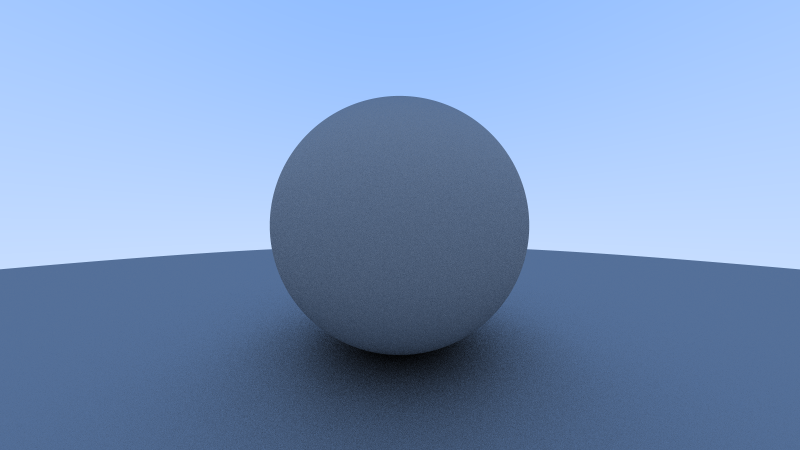
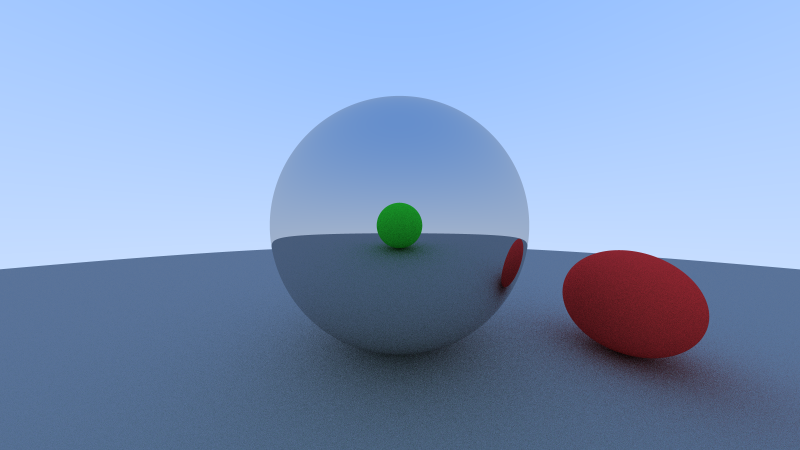
material: add metal

Changed region(s): [[0.3125, 0.2178, 0.6875, 0.6844], [0.6562, 0.5289, 1.0, 0.9644], [0.3438, 0.7156, 0.625, 0.9333]]

diff --git a/src/scene/examples/mod.rs b/src/scene/examples/mod.rs
@@ -1,5 +1,5 @@
 use crate::{
-    material::{Diffuse, DiffuseMethod},
+    material::{Diffuse, DiffuseMethod, Metal},
     object::Sphere,
     vec3::{Coord, RelColor},
 };
@@ -7,12 +7,23 @@ use crate::{
 use super::{camera::Camera, world::World, Scene};
 
 pub fn simple_scene() -> Scene {
-    let material = Diffuse::new(RelColor::new(0.6, 0.6, 0.6), DiffuseMethod::Lambertian);
-    let sphere = Sphere::new(Coord::new(0., 0., -1.), 0.5, material.clone());
-    let ground = Sphere::new(Coord::new(0., -100.5, -1.), 100., material.clone());
+    let diffuse = Diffuse::new(RelColor::new(0.6, 0.6, 0.6), DiffuseMethod::Lambertian);
+    let diffuse_green = Diffuse::new(RelColor::new(0.2, 0.95, 0.2), DiffuseMethod::Lambertian);
+    let diffuse_red = Diffuse::new(RelColor::new(0.95, 0.2, 0.2), DiffuseMethod::Lambertian);
+    let metal = Metal::new(RelColor::new(0.8, 0.8, 0.8));
+
+    let sphere = Sphere::new(Coord::new(0., 0., -1.), 0.5, metal.clone());
+    let back_sphere = Sphere::new(Coord::new(0., 0., 1.), 0.5, diffuse_green.clone());
+    let side_sphere = Sphere::new(Coord::new(0.9, -0.3, -0.9), 0.2, diffuse_red.clone());
+    let ground = Sphere::new(Coord::new(0., -100.5, -1.), 100., diffuse.clone());
 
     Scene {
-        world: World::new(vec![Box::new(sphere), Box::new(ground)]),
+        world: World::new(vec![
+            Box::new(sphere),
+            Box::new(back_sphere),
+            Box::new(side_sphere),
+            Box::new(ground),
+        ]),
         camera: Camera::default(),
     }
 }

diff --git a/src/material/metal.rs b/src/material/metal.rs
@@ -1,0 +1,41 @@
+use crate::{
+    hit_scatter::{HitRecord, ScatterRecord},
+    ray::Ray,
+    vec3::{Coord, RelColor},
+};
+
+use super::Material;
+
+fn reflect(v: Coord, n: Coord) -> Coord {
+    let b = n * n.dot(v) / n.squared_length(); // n.unit() * (n.dot(v) / n.length());
+    v - b * 2.
+}
+
+#[derive(Clone)]
+pub struct Metal {
+    albedo: RelColor,
+}
+
+impl Metal {
+    pub fn new(albedo: RelColor) -> Self {
+        Self { albedo }
+    }
+}
+
+impl Material for Metal {
+    fn scatter(&self, ray: &Ray, hit: &HitRecord) -> Option<ScatterRecord> {
+        let reflected_dir = reflect(ray.dir, hit.normal);
+
+        if reflected_dir.dot(hit.normal) > 0. {
+            // TODO: why?
+            let scattered_ray = Ray::new(hit.point, reflected_dir);
+
+            Some(ScatterRecord {
+                scattered_ray,
+                attenuation: self.albedo,
+            })
+        } else {
+            None
+        }
+    }
+}

diff --git a/src/material/mod.rs b/src/material/mod.rs
@@ -4,8 +4,10 @@ use crate::{
 };
 
 mod diffuse;
+mod metal;
 
 pub use diffuse::*;
+pub use metal::*;
 
 pub trait Material: Send + Sync {
     fn scatter(&self, ray: &Ray, hit: &HitRecord) -> Option<ScatterRecord>;

diff --git a/src/material/diffuse.rs b/src/material/diffuse.rs
@@ -41,8 +41,8 @@ pub enum DiffuseMethod {
 
 #[derive(Clone)]
 pub struct Diffuse {
-    pub albedo: RelColor,
-    pub method: DiffuseMethod,
+    albedo: RelColor,
+    method: DiffuseMethod,
 }
 
 impl Diffuse {
